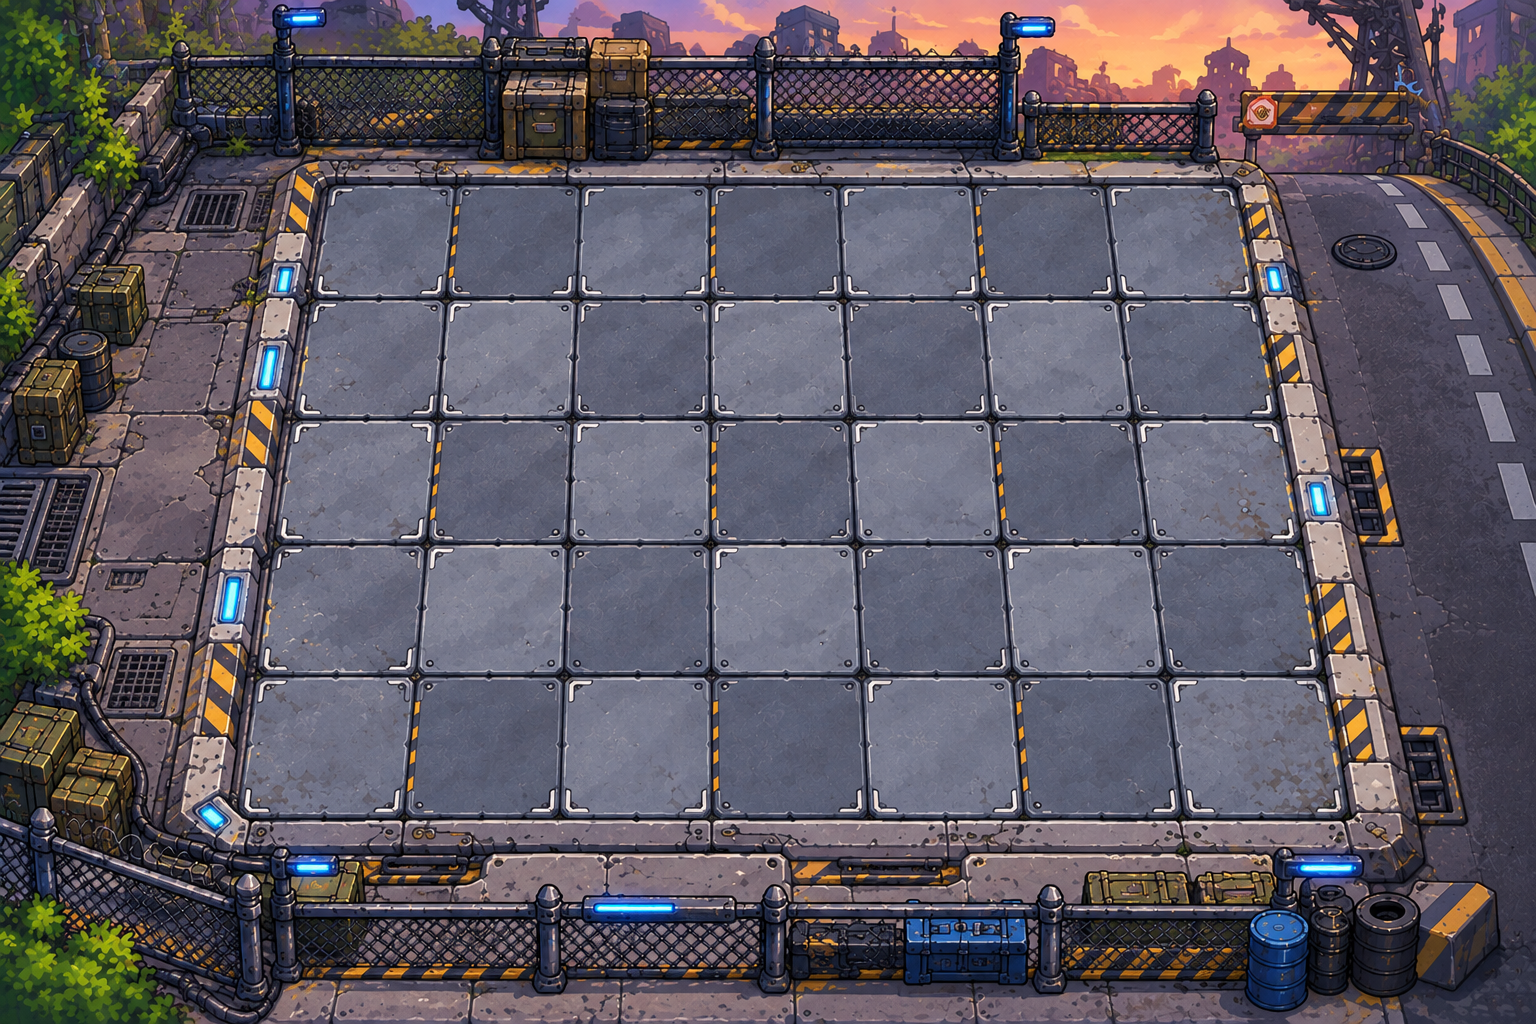
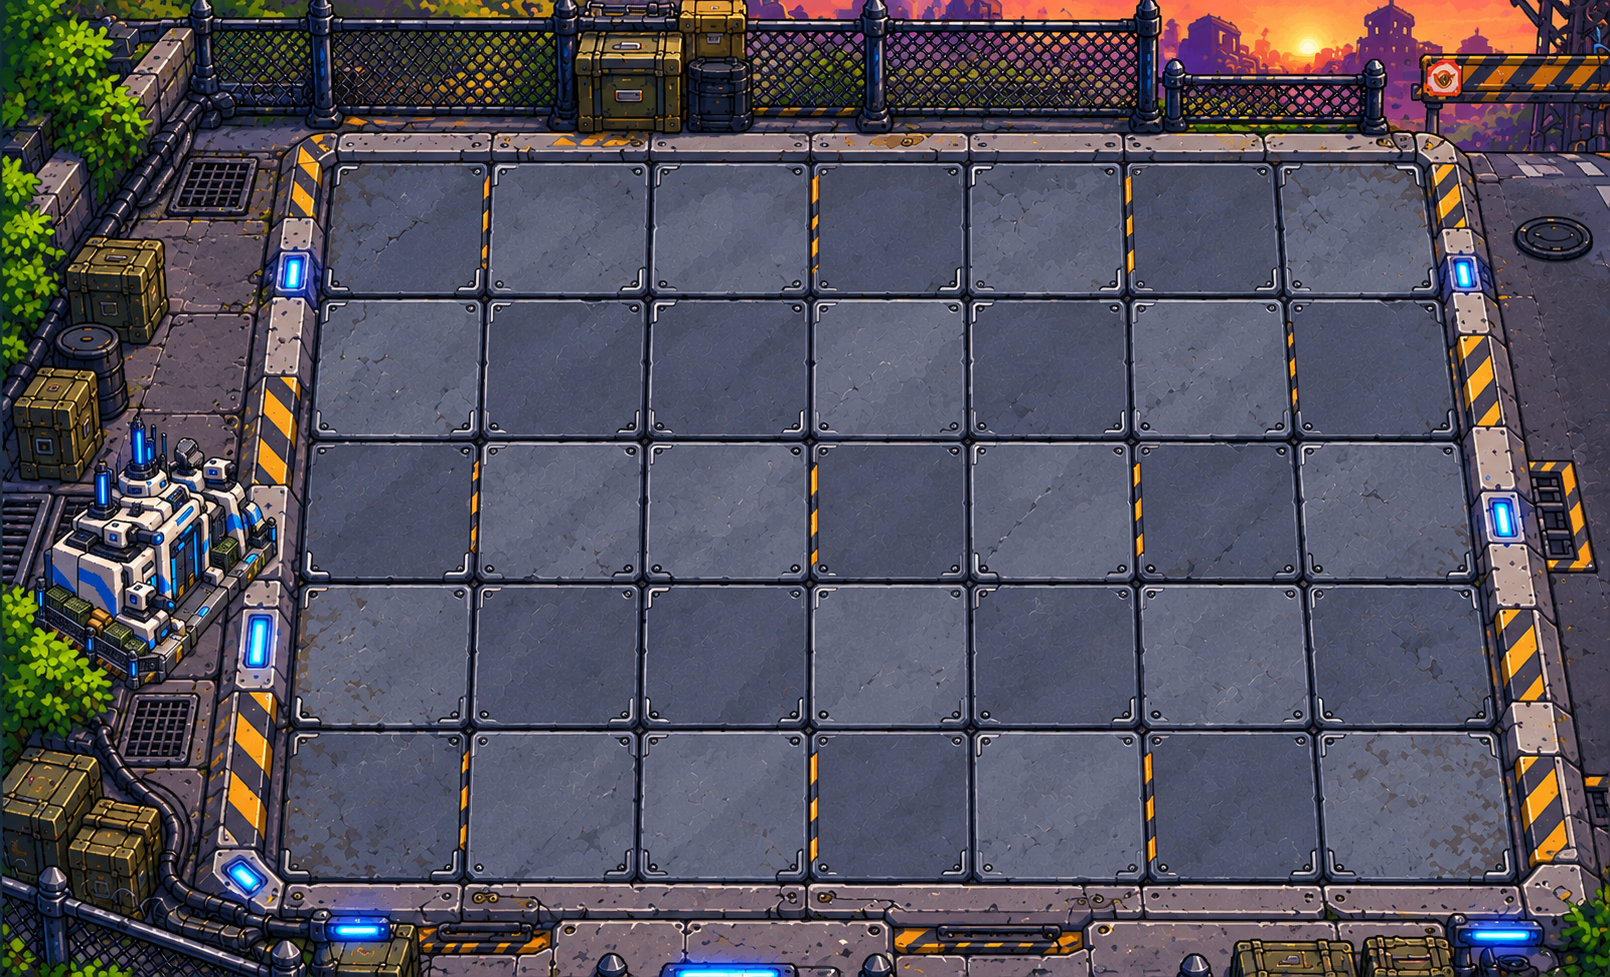
added defender
added a  new defender called dualbarrel which shoots twice as many projectiles as a soldier, also adjusted the background image to match the grid

diff --git a/src/ui/DefenderToolbar.ts b/src/ui/DefenderToolbar.ts
@@ -2,7 +2,7 @@
 import Phaser from "phaser";
 import { SETTINGS } from "../config/settings";
 
-type DefenderType = "shooter" | "generator" | "barricade";
+type DefenderType = "shooter" | "generator" | "barricade" | "dualbarrel";
 
 export class DefenderToolbar {
 
@@ -10,11 +10,9 @@ export class DefenderToolbar {
     private onSelect: (defender: string) => void;
     private buttons: Phaser.GameObjects.Rectangle[] = [];
 
-
-    private cooldownTexts: Record<string, Phaser.GameObjects.Text>= {};
+    private cooldownTexts: Record<string, Phaser.GameObjects.Text> = {};
     private defenderButtons: Record<string, Phaser.GameObjects.Rectangle> = {};
     private selectedType: string | null = null;
-
 
     constructor(
         scene: Phaser.Scene,
@@ -31,21 +29,27 @@ export class DefenderToolbar {
         const toolbarX = 65;
 
         // Toolbar background
-        this.scene.add.rectangle(toolbarX,225,120,365,0x263447,0.95).setDepth(10);
+        this.scene.add.rectangle(
+            toolbarX, 280, 120, 475, 0x263447, 0.95
+        ).setDepth(10);
 
-        this.scene.add.text(toolbarX,65,"DEFENDERS", {fontSize: "14px",color: "#ffffff"}).setOrigin(0.5).setDepth(11);
+        this.scene.add.text(
+            toolbarX, 65, "DEFENDERS",
+            { fontSize: "14px", color: "#ffffff" }
+        ).setOrigin(0.5).setDepth(11);
 
         // Defender buttons
         this.addButton(toolbarX, 125, "Shooter", "shooter");
         this.addButton(toolbarX, 235, "Generator", "generator");
         this.addButton(toolbarX, 345, "Barricade", "barricade");
+        this.addButton(toolbarX, 455, "Dual Barrel", "dualbarrel");
     }
 
     private addButton(
         x: number,
         y: number,
         name: string,
-        type: "shooter" | "generator" | "barricade"
+        type: DefenderType
     ) {
 
         // Button background
@@ -65,13 +69,30 @@ export class DefenderToolbar {
         icon.setDepth(12);
 
         // Defender name
-        this.scene.add.text(x,y + 22,name,{fontSize: "14px",color: "#ffffff"}).setOrigin(0.5).setDepth(12);
+        this.scene.add.text(
+            x, y + 22, name,
+            { fontSize: "14px", color: "#ffffff" }
+        ).setOrigin(0.5).setDepth(12);
 
         // Energy cost from CSV settings
-        this.scene.add.text(x,y + 40,SETTINGS.defenders[type].cost + " Energy",{fontSize: "12px",color: "#00ccff"}).setOrigin(0.5).setDepth(12);
+        this.scene.add.text(
+            x,
+            y + 40,
+            SETTINGS.defenders[type].cost + " Energy",
+            { fontSize: "12px", color: "#00ccff" }
+        ).setOrigin(0.5).setDepth(12);
 
-        //Cooldown countdown displayed over the icon
-        const cooldownText = this.scene.add.text(x,y-17,"",{fontSize:"22px", color:"#ffffff", fontStyle: "bold", stroke:"#000000", strokeThickness:4});
+        // Cooldown countdown displayed over the icon
+        const cooldownText = this.scene.add.text(
+            x, y - 17, "",
+            {
+                fontSize: "22px",
+                color: "#ffffff",
+                fontStyle: "bold",
+                stroke: "#000000",
+                strokeThickness: 4
+            }
+        );
 
         cooldownText.setOrigin(0.5);
         cooldownText.setDepth(13);
@@ -97,28 +118,42 @@ export class DefenderToolbar {
         });
     }
 
-    updateCooldowns(now: number,lastPlaced: Record<string, number>) {
-        const types: DefenderType[] = ["shooter","generator","barricade"];
+    updateCooldowns(
+        now: number,
+        lastPlaced: Record<string, number>
+    ) {
+        const types: DefenderType[] = [
+            "shooter",
+            "generator",
+            "barricade",
+            "dualbarrel"
+        ];
 
         for (const type of types) {
 
             const last = lastPlaced[type];
             const cooldown = SETTINGS.defenders[type].cooldownMs;
 
-            const remaining = last === undefined ? 0 : Math.max(0, cooldown - (now - last));
+            const remaining = last === undefined
+                ? 0
+                : Math.max(0, cooldown - (now - last));
 
             const button = this.defenderButtons[type];
             const text = this.cooldownTexts[type];
 
             if (remaining > 0) {
-                //darken buttons
+
+                // Darken buttons during cooldown
                 button.setFillStyle(0x303846);
                 button.setStrokeStyle();
 
-                text.setText( (remaining / 1000).toFixed(1) + "s");
+                text.setText(
+                    (remaining / 1000).toFixed(1) + "s"
+                );
                 text.setVisible(true);
 
             } else {
+
                 text.setVisible(false);
 
                 if (this.selectedType === type) {

diff --git a/src/defenders/DualBarrel.ts b/src/defenders/DualBarrel.ts
@@ -1,0 +1,80 @@
+
+import Phaser from "phaser";
+import { Defender } from "./Defender";
+import { Projectile } from "../objects/projectile";
+import { Enemy } from "../enemies/Enemy";
+import { SETTINGS } from "../config/settings";
+
+export class DualBarrel extends Defender {
+
+    private shootTimer: Phaser.Time.TimerEvent;
+    private enemies: Enemy[];
+
+    constructor(
+        scene: Phaser.Scene,
+        x: number,
+        y: number,
+        enemies: Enemy[]
+    ) {
+        super(scene, x, y, "dualbarrel");
+
+        this.setDisplaySize(65, 65);
+
+        this.setDefenderHealth(
+            SETTINGS.defenders.dualbarrel.health
+        );
+
+        this.damage = SETTINGS.defenders.dualbarrel.damage;
+        this.enemies = enemies;
+
+        // Fires two shots every second
+        this.shootTimer = scene.time.addEvent({
+            delay: Math.max(
+                1,
+                SETTINGS.defenders.dualbarrel.fireIntervalMs
+            ),
+            callback: () => {
+                if (this.active && this.hasEnemyInRow()) {
+                    this.shoot();
+
+                    // Second shot after 150ms
+                    this.scene.time.delayedCall(150, () => {
+                        if (this.active && this.hasEnemyInRow()) {
+                            this.shoot();
+                        }
+                    });
+                }
+            },
+            loop: true
+        });
+    }
+
+    private hasEnemyInRow(): boolean {
+        return this.enemies.some(enemy =>
+            enemy.active &&
+            enemy.x > this.x &&
+            Math.abs(enemy.y - this.y) < 20
+        );
+    }
+
+    private shoot() {
+        if (!this.active) return;
+
+        if (this.scene.cache.audio.exists("laserSound")) {
+            this.scene.sound.play("laserSound", {
+                volume: 0.3
+            });
+        }
+
+        new Projectile(
+            this.scene,
+            this.x + 25,
+            this.y - 2
+        );
+    }
+
+    destroy(fromScene?: boolean) {
+        this.shootTimer?.destroy();
+        super.destroy(fromScene);
+    }
+}

diff --git a/src/scenes/GameScene.ts b/src/scenes/GameScene.ts
@@ -7,6 +7,7 @@ import { Defender } from "../defenders/Defender";
 import { Shooter } from "../defenders/Shooter";
 import { Generator } from "../defenders/Generator";
 import { Barricade } from "../defenders/Barricade";
+import { DualBarrel } from "../defenders/DualBarrel";
 
 import { Enemy } from "../enemies/Enemy";
 import { MeleeEnemy } from "../enemies/MeleeEnemy";
@@ -60,16 +61,13 @@ export class GameScene extends Phaser.Scene {
 
         // Defender images
         this.load.image( "shooter", "assets/defenders/shooterdefender.png" );
-
         this.load.image( "generator", "assets/defenders/generator.png" );
-
         this.load.image("barricade","assets/defenders/barricade.png" );
+        this.load.image("dualbarrel", "assets/defenders/dualbarrel.png");
 
         // Enemy images
         this.load.image( "meleeEnemy", "assets/enemies/meleerobot.png" );
-
         this.load.image( "rangedEnemy", "assets/enemies/rangedEnemy.png");
-
         this.load.image("crusherEnemy", "assets/enemies/crusherrobot.png");
 
         // Effects
@@ -133,7 +131,7 @@ export class GameScene extends Phaser.Scene {
         const type = this.selectedDefender;
 
         // Allowed defenders
-        if (type !== "shooter" &&type !== "generator" &&type !== "barricade") {
+        if (type !== "shooter" && type !== "generator" && type !== "barricade" && type !== "dualbarrel") {
             return;
         }
 
@@ -165,6 +163,9 @@ export class GameScene extends Phaser.Scene {
 
         } else if (type === "barricade") {
             defender = new Barricade(this, x, y);
+
+        } else if (type === "dualbarrel") {
+            defender = new DualBarrel(this, x, y, this.enemies);
 
         } else {
             defender = new Shooter(this,x,y,this.enemies);

diff --git a/src/config/settings.ts b/src/config/settings.ts
@@ -61,7 +61,18 @@ export const SETTINGS = {
             fireIntervalMs: 0,
             projectileSpeed: 0,
             projectileDamage: 0
+        },
+
+        dualbarrel: {
+            health: 300,
+            damage: 40,
+            cost: 200,
+            cooldownMs: 12000,
+            fireIntervalMs: 1000,
+        projectileSpeed: 300,
+        projectileDamage: 20
         }
+
     },
 
     energy: {
